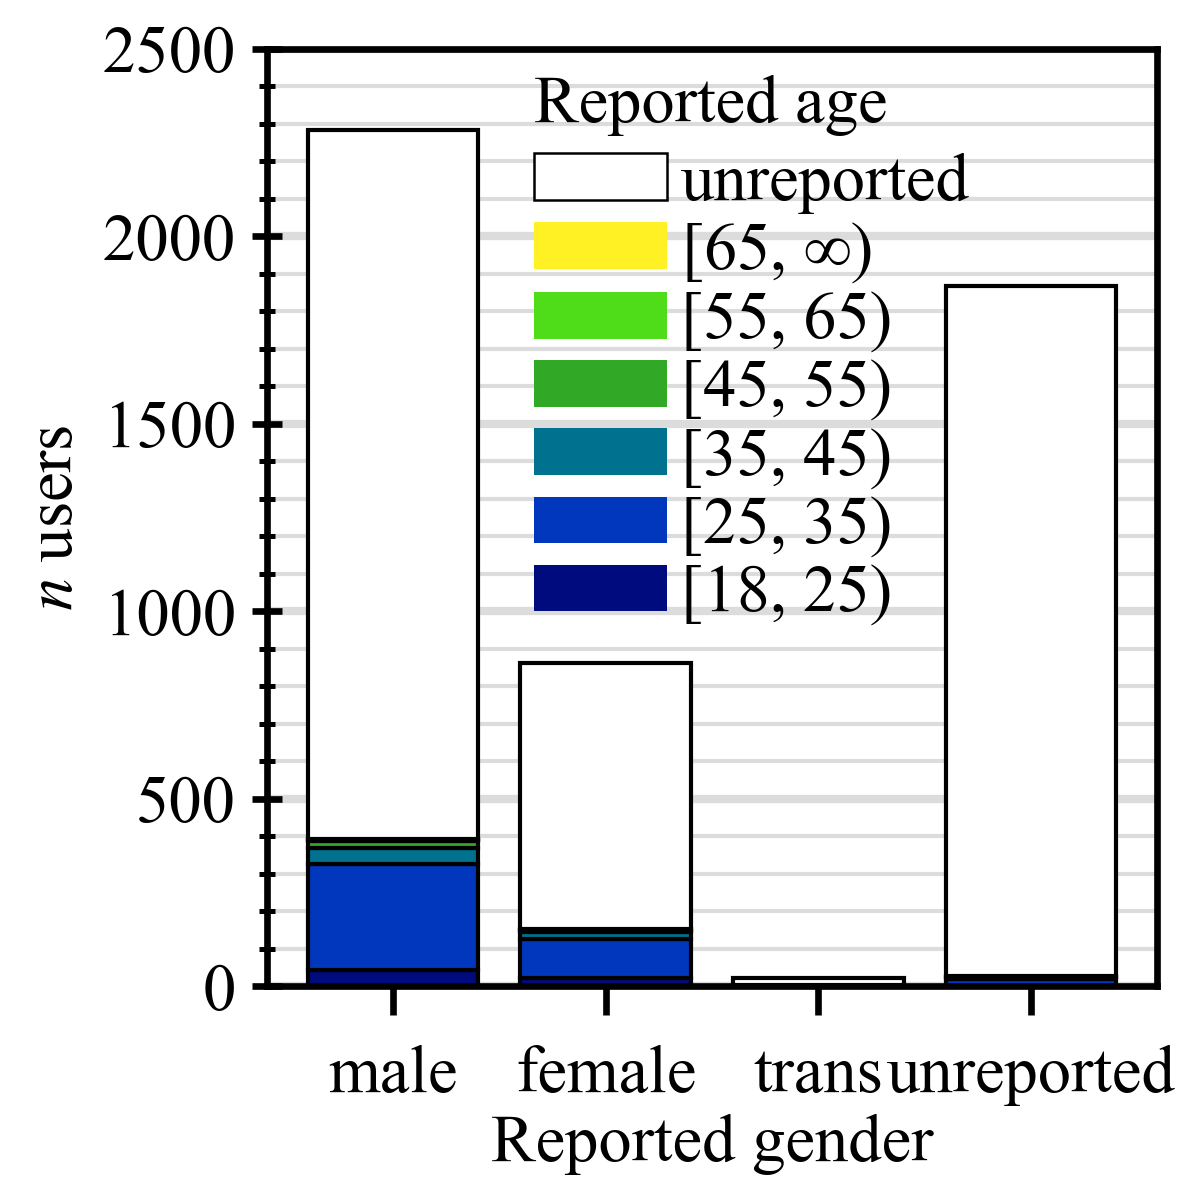
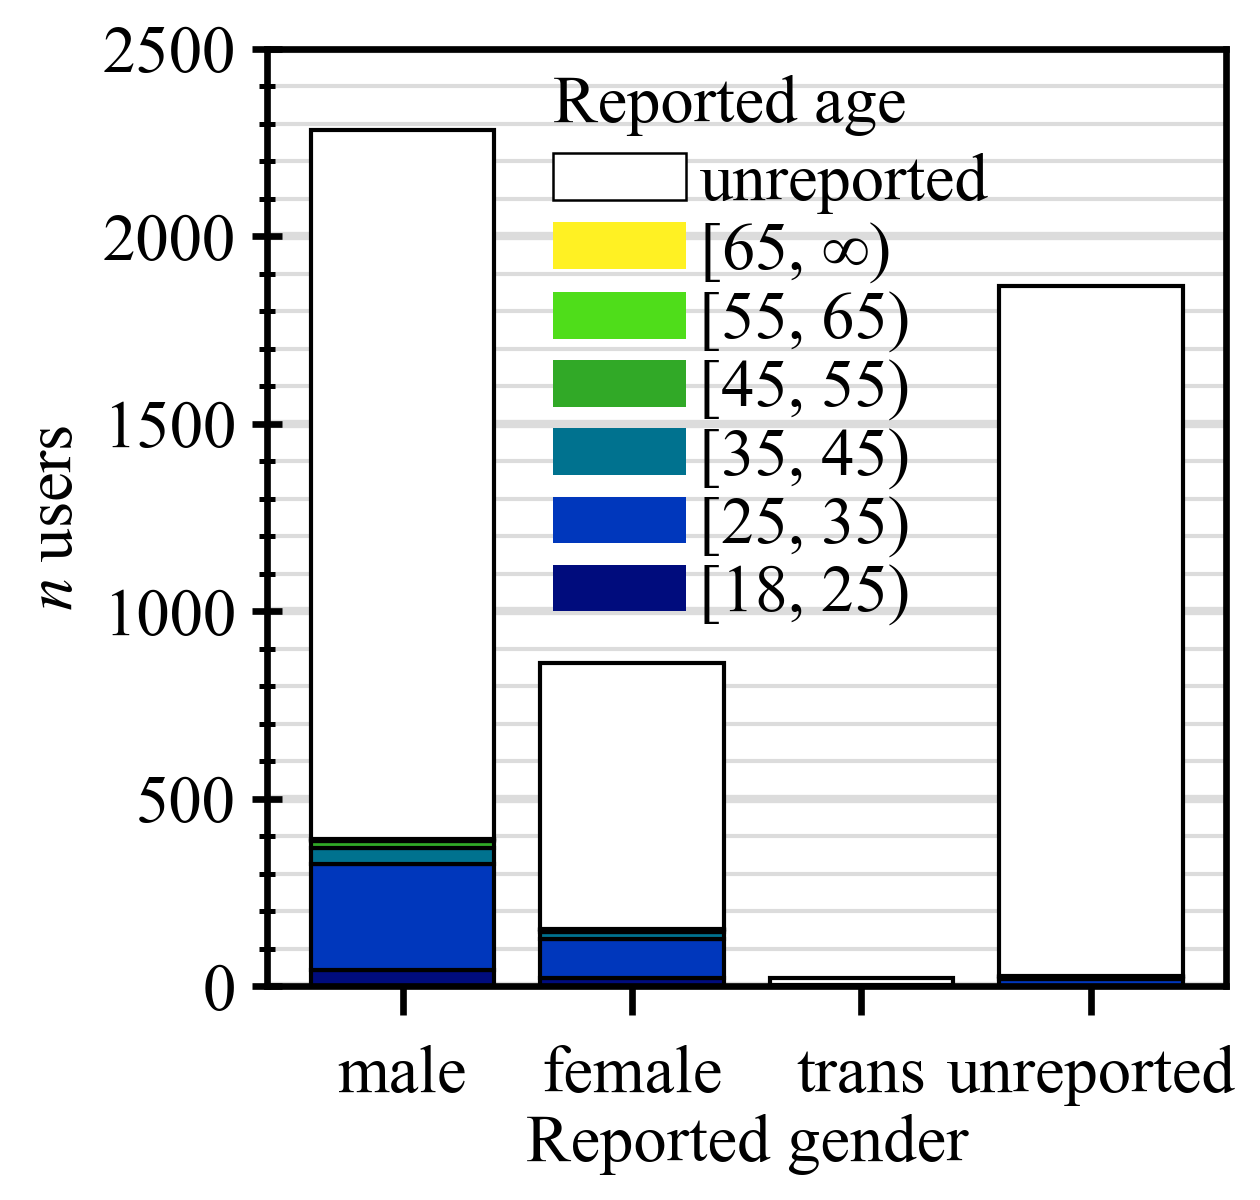
Increase xtick label spacing

diff --git a/scripts/describe-demographics.py b/scripts/describe-demographics.py
@@ -84,7 +84,7 @@ c.export_table(country_counts, EXPORT_STEM_LOCATION)
 ########################################################################################
 
 # Open figure
-fig, ax = plt.subplots(figsize=(2, 2), constrained_layout=True)
+fig, ax = plt.subplots(figsize=(2.1, 2), constrained_layout=True)
 
 # Add gender integer values for plotting order
 df["gender_int"] = df["gender"].cat.codes
